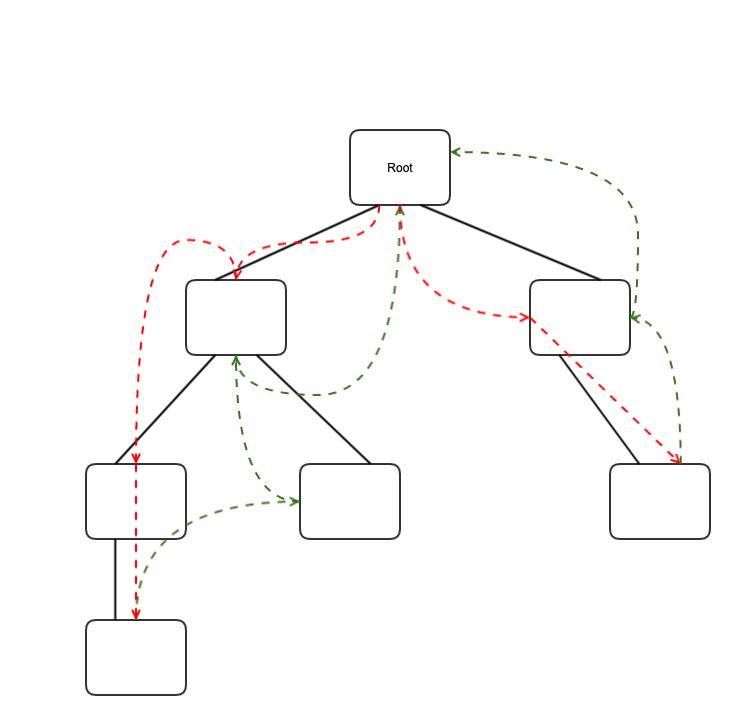
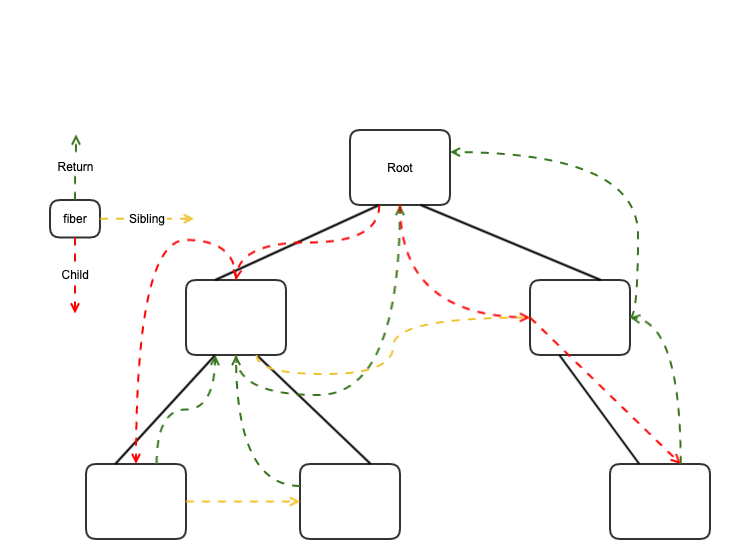
update Fiber

diff --git a/front_end/browser_rendering.md b/front_end/browser_rendering.md
@@ -87,7 +87,7 @@ class nonEssentialWork {
         this.tasks.push(task);
     }
 
-    clear = () => {
+    clean = () => {
         this.tasks = [];
     }
 
@@ -102,29 +102,28 @@ class nonEssentialWork {
             }
         }, {timeout});
     }
-
 };
 
 ```
 
 ## requestAnimationFrame
 
-
-
 ## React Fiber and React Scheduler
 
-Fiber是一种调度算法，使用requestIdleCallback实现，React用requestAnimationFrame模拟实现。解决无多线程操作带来的问题。
+Fiber是一种调度算法(Fiber reconciler)，使用requestIdleCallback实现，React用requestAnimationFrame模拟实现。解决无多线程操作带来的问题。
 
-DOM的树形结构，以及其包含的大量数据，保证其顺序执行，且不影响主线程的UI渲染。从Root开始，遍历tree结构，到达叶子节点，则回到父节点，以链表的形式链接起来(或者队列？)，如下图：
+DOM的树形结构，以及其包含的大量数据，保证其顺序执行，且不影响主线程的UI渲染。从Root开始，遍历tree结构，到达叶子节点，则回到父节点，以链表的形式链接起来，如下图：
 
 ![Fiber](./Fiber.png)
 
 优点：
 
 - 不用递归处理DOM树，循环即可。相比递归的栈，只需多了额外内存保存信息
-- 有了此层的抽象，可以将Diff任务以及创建DOM的任务，分片执行之。异步渲染，虽然持续时间长，但zhzhzhzh只有最后变更的时候，一次性插入DOM
+- 有了此层的抽象，可以将Diff任务以及创建DOM的任务，分片执行之。异步渲染，虽然持续时间长，但只有最后变更的时候，一次性插入DOM
 
-本质上React的Fiber是将任务分片为小任务，在16ms中的渲染的空闲时间执行。
+JavaScript与UI渲染互斥，执行JavaScript则阻塞了UI渲染。如果JavaScript运行时间长，则会明显阻塞渲染，导致掉帧。
+
+本质上React的Fiber是将任务分片为小任务，在16ms中的渲染的空闲时间执行。从而避免掉帧的问题。
 
 ### 与协程的Fiber有差异
 
@@ -148,6 +147,12 @@ danabramov:
 ## 参考资料
 
 - [Javascript 高性能动画与页面渲染](https://www.infoq.cn/article/javascript-high-performance-animation-and-page-rendering)
+
+- [完全理解React Fiber](http://www.ayqy.net/blog/dive-into-react-fiber/)
+
+- [Inside Fiber: in-depth overview of the new reconciliation algorithm in React](https://medium.com/react-in-depth/inside-fiber-in-depth-overview-of-the-new-reconciliation-algorithm-in-react-e1c04700ef6e)
+
+- [React16源码之React Fiber架构](https://github.com/HuJiaoHJ/blog/issues/7)
 
 - [从 event loop 规范探究 javaScript 异步及浏览器更新渲染时机](https://juejin.im/entry/59082301a22b9d0065f1a186)
 
